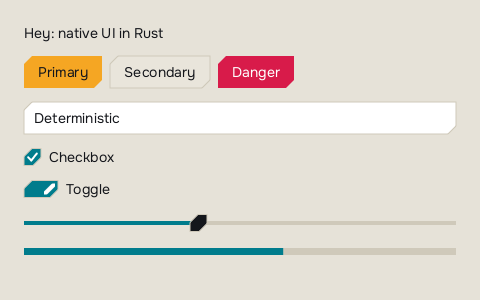
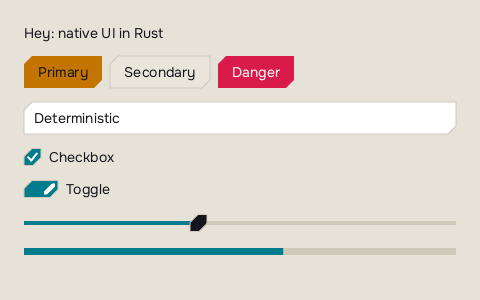
Add WindowConfig::min_size and fix light-theme accent contrast
The light accent is now #C47400 (3:1 on the panel, 4.5:1 for text on accent);
the contrast audit requires an empty result and the site screenshot is regenerated.

Changed region(s): [[0.0312, 0.18, 0.2188, 0.3]]

diff --git a/crates/hey-shell/src/lib.rs b/crates/hey-shell/src/lib.rs
@@ -188,11 +188,13 @@ pub struct WindowConfig {
     pub clear: hey_core::Color,
     /// Wait for vertical sync on the GPU backend (`HEY_VSYNC=0|1` overrides).
     pub vsync: bool,
+    /// Smallest logical size the user can resize the window to (`None`: no limit).
+    pub min_size: Option<(f64, f64)>,
 }
 
 impl Default for WindowConfig {
     fn default() -> Self {
-        Self { title: "Hey".into(), size: (960.0, 600.0), clear: hey_core::Color::hex(0x0B0C10), vsync: true }
+        Self { title: "Hey".into(), size: (960.0, 600.0), clear: hey_core::Color::hex(0x0B0C10), vsync: true, min_size: None }
     }
 }
 
@@ -411,10 +413,13 @@ struct Shell<A> {
 
 impl<A: ShellApp> Shell<A> {
     fn create_win(&mut self, el: &ActiveEventLoop, key: WindowKey, cfg: &WindowConfig) -> bool {
-        let attrs = Window::default_attributes()
+        let mut attrs = Window::default_attributes()
             .with_title(cfg.title.clone())
             .with_inner_size(LogicalSize::new(cfg.size.0, cfg.size.1))
             .with_visible(false);
+        if let Some((w, h)) = cfg.min_size {
+            attrs = attrs.with_min_inner_size(LogicalSize::new(w, h));
+        }
         let window = match el.create_window(attrs) {
             Ok(w) => Arc::new(w),
             Err(e) => {
@@ -523,7 +528,13 @@ impl<A: ShellApp> ApplicationHandler<a11y::UserEvent> for Shell<A> {
         if !self.windows.is_empty() {
             return;
         }
-        let cfg = WindowConfig { title: self.cfg.title.clone(), size: self.cfg.size, clear: self.cfg.clear, vsync: self.cfg.vsync };
+        let cfg = WindowConfig {
+            title: self.cfg.title.clone(),
+            size: self.cfg.size,
+            clear: self.cfg.clear,
+            vsync: self.cfg.vsync,
+            min_size: self.cfg.min_size,
+        };
         if !self.create_win(el, MAIN_WINDOW, &cfg) {
             el.exit();
         }

diff --git a/crates/hey-shell/src/app.rs b/crates/hey-shell/src/app.rs
@@ -260,6 +260,12 @@ impl<M: 'static, Msg: Send + 'static> App<M, Msg> {
         self
     }
 
+    /// Smallest logical size the user can resize the main window to.
+    pub fn min_size(mut self, width: f64, height: f64) -> Self {
+        self.window.min_size = Some((width, height));
+        self
+    }
+
     /// Command run at startup (e.g. the initial load).
     pub fn init(mut self, cmd: Command<Msg>) -> Self {
         self.init = cmd;
@@ -320,8 +326,13 @@ impl<M: 'static, Msg: Send + 'static> App<M, Msg> {
     }
 
     pub fn run(self) -> Result<(), Error> {
-        let cfg =
-            WindowConfig { title: self.window.title.clone(), size: self.window.size, clear: self.window.clear, vsync: self.window.vsync };
+        let cfg = WindowConfig {
+            title: self.window.title.clone(),
+            size: self.window.size,
+            clear: self.window.clear,
+            vsync: self.window.vsync,
+            min_size: self.window.min_size,
+        };
         let rt = self.build()?;
         crate::run(cfg, rt)
     }

diff --git a/crates/hey-style/tests/style.rs b/crates/hey-style/tests/style.rs
@@ -155,11 +155,7 @@ fn builtin_themes_pass_contrast_audit() {
     for id in ["industrial-dark", "night-ops", "zeta-remastered"] {
         assert_eq!(Theme::builtin(id).unwrap().audit_contrast(), vec![], "{id}");
     }
-    // Known finding: the amber accent on the cream light panel is about 1.8:1 (needs 3:1).
-    // Fixing it is a design decision; tighten this assertion to `vec![]` once the light accent is darkened.
-    let light = Theme::light().audit_contrast();
-    assert_eq!(light.len(), 1, "{light:?}");
-    assert_eq!((light[0].foreground, light[0].background), ("accent", "panel"));
+    assert_eq!(Theme::light().audit_contrast(), vec![]);
     let mut bad = Theme::dark();
     bad.palette.text = bad.palette.panel;
     assert!(bad.audit_contrast().iter().any(|i| i.foreground == "text" && i.background == "panel"));

diff --git a/crates/hey-style/src/theme.rs b/crates/hey-style/src/theme.rs
@@ -256,6 +256,7 @@ impl Theme {
         p.text = Color::hex(0x14161B);
         p.text_muted = Color::hex(0x5B6270);
         p.text_disabled = Color::hex(0x9AA0AB);
+        p.accent = Color::hex(0xC47400);
         p.accent_dark = Color::hex(0x8A5200);
         p.error = Color::hex(0xD81B4A);
         p.success = Color::hex(0x0B9B45);

diff --git a/CHANGELOG.md b/CHANGELOG.md
@@ -7,7 +7,11 @@ All notable changes are documented here. The format is based on [Keep a Changelo
 ### Fixed
 - Text scale applied after the first build (system `TextScaleFactor` at window creation, or a live change) left widgets sized for 100%: `Ui::reconcile` kept leaves whose props were unchanged. A size-affecting `set_theme` (font size or scale) now rebuilds leaves, with state and focus carried over; a dark/light switch still keeps them.
 
+### Changed
+- The light theme accent is darker (`#C47400`), so it passes the 3:1 contrast audit on the panel and keeps 4.5:1 for text on accent. `builtin_themes_pass_contrast_audit` now requires an empty result for the light theme; the site screenshots were regenerated.
+
 ### Added
+- `WindowConfig::min_size` and `App::min_size(w, h)`: the smallest logical size the user can resize a window to.
 - Dockable panels in `hey-widgets`: `Dock` (split tree of tabbed groups plus floating roots keyed by window number) with `select`, `close`, `move_panel(panel, target, DropZone)`, `float`, `dock_back` and `set_ratio`; `dock_view` renders a root as `View`s with the app's titles and content. Pure data, so it works with `window_view` and `Command::open_window` (example `docking`). Dragging is left to the app.
 - MVU multi-window in `hey-shell`: `App::window_view(|key, &model| ...)` is the view function for every extra window, `Command::open_window(key, cfg)` / `Command::close_window(key)` open and close them from `update`, and `App::on_window_closed` turns a user-closed window into a message. `ShellApp::take_closed_windows` lets a runtime close windows. The `multi_window` example now uses this API.
 - Time-travel debugging in `hey-shell`: `App::time_travel()` (needs `Model: Clone`, `Msg: Debug`) keeps a snapshot of the model after every message (capped at 1000, oldest dropped). `Runtime::seek(Seek::Back|Forward|Start|Live)`, `history_len`, `history_cursor` and `time_travel_seek` rewind and re-render any frame; `update` and commands are never re-run, because a snapshot is swapped in. While rewound, a status bar (`Ui::set_note`) shows the position, and incoming messages (including background task results) are dropped until `Seek::Live`. Hotkeys: Ctrl+Shift+Left/Right/Home/End.

diff --git a/Docs/ROADMAP.md b/Docs/ROADMAP.md
@@ -84,7 +84,7 @@ Hey's unusual base is a pure display list, a byte-deterministic CPU rasterizer a
 7. **Design tokens as a contract.** `themes.json` becomes validated on load (missing tokens, contrast, density ranges) and exported to CSS/Figma variables so design and code cannot drift. Acceptance: `hey-style` CLI check in CI. **Status:** done (`validate_tokens`, `export_css`, `export_figma`, `hey-style check/export`, CI step); density has fixed scales, so there is no density range to validate yet.
 8. **Deterministic cross-platform screenshots as an API.** `Ui::render_png` without a window, for docs, bug reports and social cards. Acceptance: the site screenshots are generated by a test. **Status:** done (`Ui::render`, `Ui::render_png`; `site_screenshots` test writes and checks `site/assets/screenshot-*.png`).
 9. **MVU multi-window and docking.** Per-window view functions in `App`, then dockable panels built on the multi-window shell. Acceptance: `multi_window` example moves to the MVU API. **Status:** multi-window half done (`App::window_view`, `Command::open_window`/`close_window`, `on_window_closed`; example moved). Docking done (`Dock`, `DockNode`, `dock_view`; example `docking`); pointer drag of tabs is left to the app.
-10. **Core polish.** macOS menu bar and text-scale reader, `WindowConfig::min_size`, light-theme accent contrast (see `builtin_themes_pass_contrast_audit`), vello backend evaluation.
+10. **Core polish.** **Status:** `WindowConfig::min_size` and the light-theme accent contrast are done. Still open: macOS menu bar and text-scale reader (need a Mac), vello backend evaluation.
 
 Order: 4 (started), 1, 3, 5, 6, 7, 8, 2, 9, 10.
 
